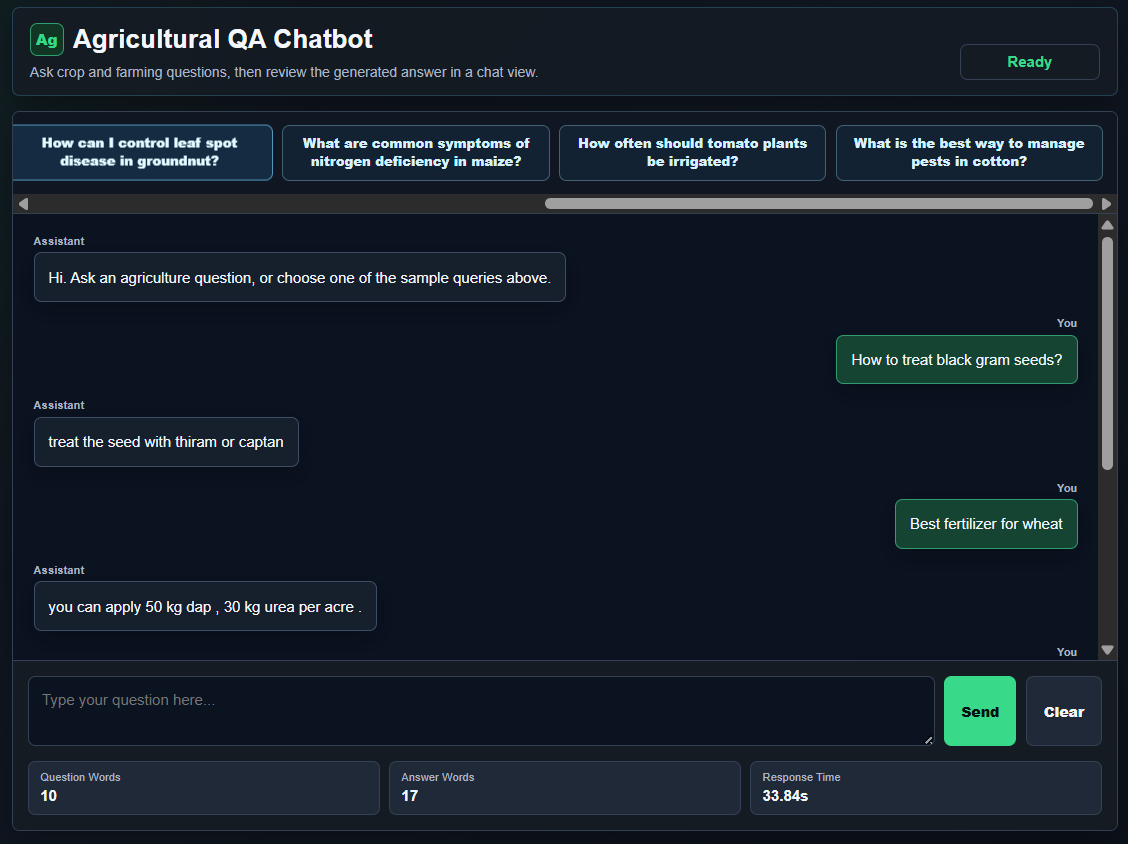
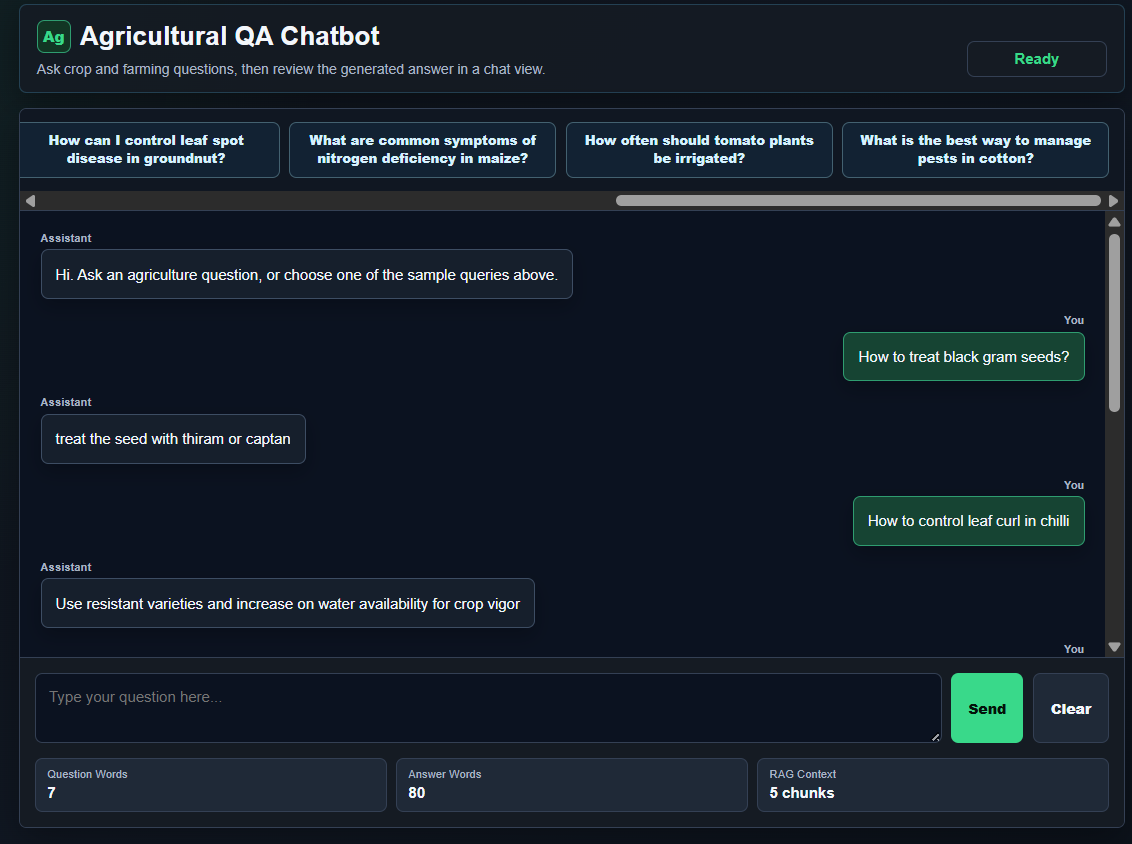
uses rag for inference

diff --git a/chat.py b/chat.py
@@ -1,112 +1,55 @@
 # chat.py
 import torch
-import os
-import pandas as pd
-from config import Config
-from data_loader import SimpleTokenizer
 
-try:
-    from transformer import TransformerQA
-except ImportError:
-    print("TransformerQA unavailable.")
-    exit(1)
+from config import Config
+from rag_inference import answer_with_rag, build_retriever, load_model_and_tokenizer
+
 
 def main():
     print("========================================")
-    print("      Agricultural QA Chatbot           ")
+    print("      Agricultural RAG QA Chatbot       ")
     print("========================================")
-    print("Initializing system... (please wait)")
-    
+    print("Initializing RAG system... (please wait)")
+
     config = Config()
     device = torch.device("cuda" if torch.cuda.is_available() else "cpu")
-    
-    # 1. Load Tokenizer
-    tokenizer = SimpleTokenizer(config)
-    if not os.path.exists(tokenizer.vocab_file):
-        print("Vocabulary not found. Building from data.csv...")
-        df = pd.read_csv('data.csv').dropna(subset=['question', 'answer'])
-        tokenizer.build_vocab(df)
-    else:
-        tokenizer.build_vocab(None)
-        
-    import numpy as np
-    dummy_embeddings = np.zeros((config.vocab_size, config.hidden_dim), dtype=np.float32)
-    
-    # 2. Init Model
-    model = TransformerQA(
-        vocab_size=config.vocab_size,
-        hidden_dim=config.hidden_dim,
-        num_encoder_layers=config.num_encoder_layers,
-        num_decoder_layers=config.num_decoder_layers,
-        num_heads=config.num_heads,
-        ff_dim=config.ff_dim,
-        dropout=config.dropout,
-        max_seq_len=getattr(config, 'rag_max_seq_len', config.max_seq_len),
-        embeddings=dummy_embeddings
-    ).to(device)
-    
-    # 3. Load Weights
-    if os.path.exists(config.model_save_path):
-        state     = torch.load(config.model_save_path, map_location=device)
-        state.pop("pos_encoding.pe", None)
-        state.pop("decoder.pos_encoding.pe", None)
-        own_state  = model.state_dict()
-        compatible = {k: v for k, v in state.items()
-                      if k in own_state and v.shape == own_state[k].shape}
-        skipped    = [k for k in state if k not in compatible]
-        model.load_state_dict(compatible, strict=False)
-        print(f"Loaded trained weights from '{config.model_save_path}'! "
-              f"({len(compatible)}/{len(state)} tensors)")
-        if skipped:
-            print(f"  (skipped shape-mismatched keys — retrain to fix): {skipped}")
-    else:
-        print(f"WARNING: '{config.model_save_path}' not found!")
-        print("The model is untrained. Responses will be random garbage.")
-        
-    model.eval()
-    
+
+    model, tokenizer = load_model_and_tokenizer(config, device)
+    retriever = build_retriever(model, tokenizer, config, device)
+
     print("\nChatbot is ready! Type 'quit' or 'exit' to stop.")
     print("-" * 40)
-    
-    # 4. Interactive Loop
+
     while True:
         try:
-            question = input("\nFarmer > ")
-            if question.strip().lower() in ['quit', 'exit']:
+            question = input("\nFarmer > ").strip()
+            if question.lower() in ["quit", "exit"]:
                 print("Goodbye!")
                 break
-                
-            if not question.strip():
+
+            if not question:
                 continue
-                
-            # Tokenize
-            src_ids = torch.tensor([tokenizer.encode(question)], device=device)
-            
-            # Generate
-            with torch.no_grad():
-                result_ids = model.generate(src_ids, tokenizer, max_length=20, beam_width=1)
-                if isinstance(result_ids, tuple):
-                    result_ids = result_ids[0]
-                
-                # --- ADD THIS LINE ---
-                print(f"[Debug] Raw IDs: {result_ids}")
-                
-                answer = tokenizer.decode(result_ids)
-                print(f"Bot    > {answer}")
-            # # Generate
-            # with torch.no_grad():
-            #     result_ids = model.generate(src_ids, tokenizer, max_length=20, beam_width=1)
-            #     if isinstance(result_ids, tuple):
-            #         result_ids = result_ids[0]
-                
-            #     answer = tokenizer.decode(result_ids)
-            #     print(f"Bot    > {answer}")
-                
+
+            result = answer_with_rag(
+                question,
+                model,
+                tokenizer,
+                retriever,
+                config,
+                device,
+                beam_width=4,
+                verbose=True,
+            )
+
+            print(f"Bot    > {result['answer']}")
+            print(f"RAG    > {'used' if result['used_rag'] else 'not used'} ({len(result['context'])} chunks)")
+
         except KeyboardInterrupt:
             print("\nGoodbye!")
             break
-        except Exception as e:
-            print(f"\n[Error] {e}")
+        except Exception as exc:
+            print(f"\n[Error] {exc}")
+
 
 if __name__ == "__main__":
     main()

diff --git a/qa_ui.py b/qa_ui.py
@@ -1,9 +1,40 @@
 import json
+import threading
 from http.server import BaseHTTPRequestHandler, ThreadingHTTPServer
+
+import torch
+
+from config import Config
+from rag_inference import answer_with_rag, build_retriever, load_model_and_tokenizer
 
 
 HOST = "127.0.0.1"
 PORT = 7860
+
+
+_rag_lock = threading.Lock()
+_rag_state = None
+
+
+def get_rag_state():
+    global _rag_state
+
+    if _rag_state is None:
+        with _rag_lock:
+            if _rag_state is None:
+                config = Config()
+                device = torch.device("cuda" if torch.cuda.is_available() else "cpu")
+                model, tokenizer = load_model_and_tokenizer(config, device)
+                retriever = build_retriever(model, tokenizer, config, device)
+                _rag_state = {
+                    "config": config,
+                    "device": device,
+                    "model": model,
+                    "tokenizer": tokenizer,
+                    "retriever": retriever,
+                }
+
+    return _rag_state
 
 
 HTML = """<!doctype html>
@@ -326,7 +357,7 @@ HTML = """<!doctype html>
         <div class="meta">
           <div class="metric"><span>Question Words</span><strong id="qWords">0</strong></div>
           <div class="metric"><span>Answer Words</span><strong id="aWords">0</strong></div>
-          <div class="metric"><span>Response Time</span><strong id="time">-</strong></div>
+          <div class="metric"><span>RAG Context</span><strong id="rag">-</strong></div>
         </div>
       </section>
     </main>
@@ -353,7 +384,7 @@ HTML = """<!doctype html>
     const statusEl = document.getElementById("status");
     const qWords = document.getElementById("qWords");
     const aWords = document.getElementById("aWords");
-    const time = document.getElementById("time");
+    const rag = document.getElementById("rag");
 
     function wordCount(text) {
       return text.trim() ? text.trim().split(/\\s+/).length : 0;
@@ -395,8 +426,6 @@ HTML = """<!doctype html>
       addMessage("You", text, "user");
       question.value = "";
       const thinkingBubble = addMessage("Assistant", "Generating answer...", "bot");
-      const started = performance.now();
-
       try {
         const response = await fetch("/api/answer", {
           method: "POST",
@@ -411,12 +440,13 @@ HTML = """<!doctype html>
 
         thinkingBubble.textContent = data.answer || "No answer returned.";
         aWords.textContent = wordCount(data.answer || "");
+        rag.textContent = data.used_rag ? `${data.context_count || 0} chunks` : "Not used";
       } catch (error) {
         thinkingBubble.textContent = error.message;
         thinkingBubble.classList.add("error");
         aWords.textContent = "0";
+        rag.textContent = "-";
       } finally {
-        time.textContent = ((performance.now() - started) / 1000).toFixed(2) + "s";
         setBusy(false);
       }
     }
@@ -437,7 +467,7 @@ HTML = """<!doctype html>
       addMessage("Assistant", "Chat cleared. Ask a new agriculture question or choose a sample query.", "bot");
       qWords.textContent = "0";
       aWords.textContent = "0";
-      time.textContent = "-";
+      rag.textContent = "-";
       question.focus();
     });
 
@@ -494,10 +524,26 @@ class QAHandler(BaseHTTPRequestHandler):
             return
 
         try:
-            from inference import generate_answer
-
-            answer = generate_answer(question)
-            self._send_json(200, {"answer": answer})
+            rag_state = get_rag_state()
+            result = answer_with_rag(
+                question,
+                rag_state["model"],
+                rag_state["tokenizer"],
+                rag_state["retriever"],
+                rag_state["config"],
+                rag_state["device"],
+                beam_width=4,
+                verbose=False,
+            )
+            self._send_json(
+                200,
+                {
+                    "answer": result["answer"],
+                    "used_rag": result["used_rag"],
+                    "context_count": len(result["context"]),
+                    "scores": result["scores"],
+                },
+            )
         except Exception as exc:
             self._send_json(500, {"error": str(exc)})
 

diff --git a/transformer.py b/transformer.py
@@ -13,20 +13,20 @@ class TransformerQA(nn.Module):
     def __init__(
         self,
         vocab_size,
-        hidden_dim=256,
-        num_encoder_layers=2,
-        num_decoder_layers=2,
-        num_heads=4,
-        ff_dim=512,
+        hidden_dim=384,
+        num_encoder_layers=4,
+        num_decoder_layers=4,
+        num_heads=6,
+        ff_dim=1024,
         # there is a matrix of size (256 × 512) which expands features \
         # next activation adds non-linearity W2 (512×256): compresses backreturns to the standard size so layers stack cleanly
-        dropout=0.1,
+        dropout=0.15,
         # Dropout is applied per element in each vector [256 values] words randomly become 0 with a prob of 0.1
         embeddings=None,
         pad_token_id=0,
         start_token_id=1,
         end_token_id=2,
-        max_seq_len=100
+        max_seq_len=80
     ):
         super().__init__()
         
